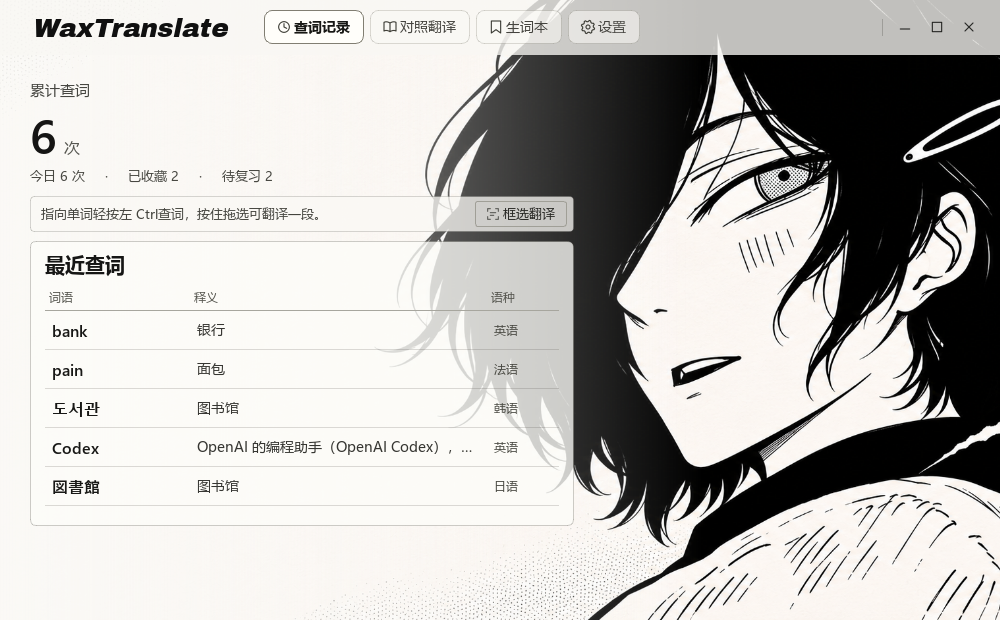
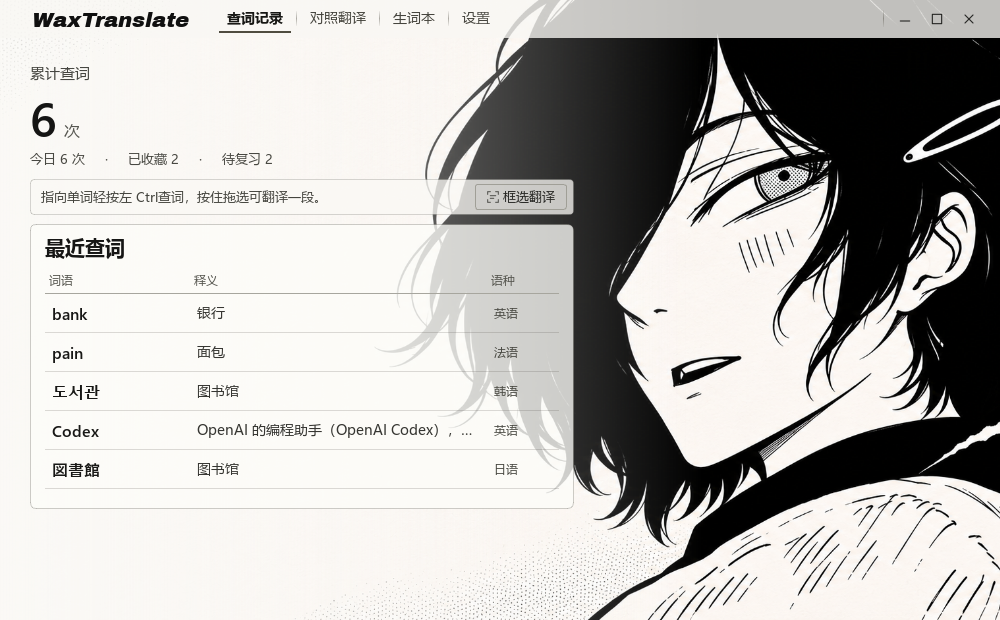
Slim the Windows navigation to text and hairline dividers (#55)

Changed region(s): [[0.031, 0.0919, 0.589, 0.8274], [0.031, 0.0, 1.0, 0.0919]]

diff --git a/windows/app.py b/windows/app.py
@@ -178,20 +178,20 @@ class Window(QWidget):
         self.wordmark = label(APP_NAME, "brand")
         self.wordmark.setAccessibleName(APP_NAME)
         rail.addWidget(self.wordmark)
-        self.nav_buttons = []
         self.tabs = QStackedWidget()
         outer.addWidget(self.tabs, 1)
-        group = QButtonGroup(self)
-        pages = (("查词记录", "history"), ("对照翻译", "book"), ("生词本", "bookmark"), ("设置", "settings"))
-        for index, (name, icon) in enumerate(pages):
+        group = self.navigation = QButtonGroup(self)
+        for index, name in enumerate(("查词记录", "对照翻译", "生词本", "设置")):
+            if index:
+                rule = QFrame(objectName="pageDivider")
+                rule.setFixedSize(1, 15)
+                rail.addWidget(rule)
             nav = QPushButton(name)
             nav.setAccessibleName(name)
             nav.setSizePolicy(QSizePolicy.Minimum, QSizePolicy.Fixed)
             nav.setCheckable(True)
             nav.setProperty("role", "nav")
             nav.setCursor(Qt.PointingHandCursor)
-            nav.setIconSize(QSize(16, 16))
-            self.nav_buttons.append((nav, ui_icon(icon, "#383831")))
             group.addButton(nav, index)
             rail.addWidget(nav)
         rail.addStretch()
@@ -319,13 +319,12 @@ class Window(QWidget):
         if self.compact == compact:
             return
         self.compact = compact
-        self.wordmark.setStyleSheet(f"font-size:{16 if compact else 26}px; padding-right:{4 if compact else 16}px;")
-        self.sidebar.setFixedHeight(46 if compact else 55)
-        self.rail.setSpacing(4 if compact else 6)
-        for button, icon in self.nav_buttons:
-            button.setIcon(QIcon() if compact else icon)
-            button.setFixedHeight(30 if compact else 34)
-            button.setStyleSheet(f"font-size:{13 if compact else 14}px; padding:0 {7 if compact else 11}px;")
+        self.wordmark.setStyleSheet(f"font-size:{16 if compact else 21}px; padding-right:{6 if compact else 14}px;")
+        self.sidebar.setFixedHeight(36 if compact else 38)
+        self.rail.setSpacing(3 if compact else 5)
+        for button in self.navigation.buttons():
+            button.setFixedHeight(28)
+            button.setStyleSheet(f"font-size:{13 if compact else 14}px; padding:0 {6 if compact else 8}px;")
         if compact:
             self.rail.setContentsMargins(12, 0, 8, 0)
             self.reading_layout.setContentsMargins(18, 18, 18, 18)

diff --git a/windows/theme.py b/windows/theme.py
@@ -130,17 +130,19 @@ def apply_theme(app):
             border-radius:4px; padding:2px 5px; font:12px 'Consolas';}
 
         QFrame#sidebar {background:rgba(248,247,243,198); border:0;}
-        QFrame#navDivider {background:rgba(68,67,59,72); border:0;}
+        QFrame#navDivider, QFrame#pageDivider {border:0; background:qlineargradient(
+            x1:0, y1:0, x2:0, y2:1, stop:0 rgba(78,75,65,16), stop:0.5 rgba(78,75,65,110),
+            stop:1 rgba(78,75,65,16));}
         QPushButton[role="windowControl"] {background:transparent; border:0; border-radius:2px; padding:0;}
         QPushButton[role="windowControl"]:hover, QPushButton[role="windowControl"]:focus {background:#e7e6df;}
         QPushButton#closeWindow:hover {background:#e3c5c0;}
         QLabel[role="brand"] {color:#101010; font:italic 27px 'Archivo Black','Arial Black'; padding-right:4px;}
-        QPushButton[role="nav"] {color:#45443f; background:rgba(249,248,244,146);
-            border:1px solid rgba(83,80,68,50); border-radius:8px; font-weight:500;}
-        QPushButton[role="nav"]:hover {background:#f6f5f0; border-color:#a6a498;}
-        QPushButton[role="nav"]:checked {color:#171714; background:#fffefa; border-color:#817e72; font-weight:600;}
-        QPushButton[role="nav"]:focus {border:1px dashed #37362f;}
-        QPushButton[role="nav"]:pressed {background:#e7e5dd;}
+        QPushButton[role="nav"] {color:#46453e; background:transparent; border:0; border-radius:0;
+            border-bottom:2px solid transparent; font-weight:500;}
+        QPushButton[role="nav"]:hover {color:#171714; background:rgba(60,57,45,12);}
+        QPushButton[role="nav"]:checked {color:#171714; border-bottom-color:#4f4c40; font-weight:600;}
+        QPushButton[role="nav"]:focus {border-bottom:2px dashed #514f45;}
+        QPushButton[role="nav"]:pressed {background:rgba(60,57,45,28);}
 
         QPushButton {color:#161615; background:#fffefa; border:1px solid #bcbcb6;
             border-radius:2px; padding:7px 13px; min-height:18px;}

diff --git a/windows/check.py b/windows/check.py
@@ -77,6 +77,7 @@ class Checks(unittest.TestCase):
                 for width, height in ((1080, 675), (820, 500), (740, 480), (570, 485), (540, 610), (540, 800)):
                     window.resize(width, height)
                     QApplication.processEvents()
+                    self.assertEqual(window.sidebar.height(), 36 if window.compact else 38)
                     self.assertGreaterEqual(window.wordmark.width(), window.wordmark.sizeHint().width())
                     for button in nav:
                         self.assertTrue(window.sidebar.rect().contains(button.geometry()))

diff --git a/README.md b/README.md
@@ -25,7 +25,7 @@ WaxTranslate 的 macOS 版使用 Vision 在本机识字，使用 Apple 翻译处
 
 「查词记录」显示累计查词次数、今日次数，以及最近查过的六个词和简短释义。同词同语种再次查询会置顶，累计次数加一。框选和整段翻译不计入词数。升级会接续旧版本仍保留的计数，最近词条从本版开始记录。上图取自独立测试词本，新词本首次打开时列表为空。
 
-顶部的圆角标签依次是「查词记录」「对照翻译」「生词本」和「设置」。当前页的标签有更明显的描边。拖动左侧字标或空白处可以移动窗口，双击可最大化或还原，边缘可拖动调整大小。右上角保留最小化、最大化和关闭按钮。普通窗口的内容铺到四边，Windows 11 下保留小圆角。
+顶栏用细竖线分隔「查词记录」「对照翻译」「生词本」和「设置」，下划线标出当前页。拖动左侧字标或空白处可以移动窗口，双击可最大化或还原，边缘可拖动调整大小。右上角保留最小化、最大化和关闭按钮。普通窗口的内容铺到四边，Windows 11 下保留小圆角。
 
 **设置**可以从主窗口导航或托盘右键菜单打开。开启「开机启动」后，下次登录当前 Windows 账户时，WaxTranslate 会进入托盘，取词键即可使用。该选项默认关闭。托盘可用时，主窗口不占任务栏按钮，最小化即收回托盘，查词仍可使用。关闭窗口也默认收起到托盘，可以在设置中改为直接退出；托盘菜单也提供「退出」。系统没有托盘时，程序用普通任务栏窗口打开。如果以前注册过启动项，后来把便携包移到新目录，可以在新版本的设置里点「改用当前版本」。
 
